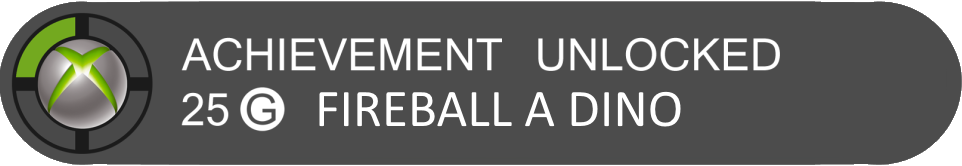
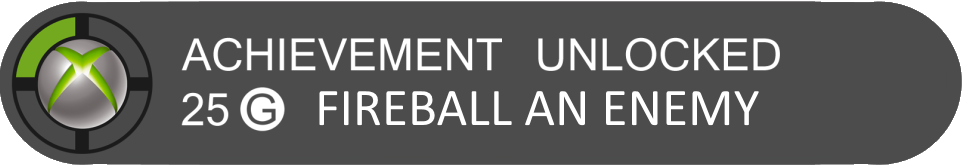
Added Achievements (working on a GUI for them)

Changed region(s): [[0.5301, 0.5422, 0.8108, 0.7831], [0.3119, 0.5422, 0.5301, 0.7831]]

diff --git a/Sprint 4/Sprint_4/Achievements/AchievementsManager.cs b/Sprint 4/Sprint_4/Achievements/AchievementsManager.cs
@@ -4,31 +4,76 @@ using System.Linq;
 using System.Text;
 using Microsoft.Xna.Framework;
 using Microsoft.Xna.Framework.Graphics;
+using Microsoft.Xna.Framework.Audio;
 
 namespace Sprint4
 {
-    class AchievementsManager
+    public class AchievementsManager
     {
-        private List<Achievement> achievements;
-        private List<int> achievementKeeper;
+        private Dictionary<AchievementType, Achievement> achievementKeeper;
+        private SoundEffectInstance achFX;
+        private int achTimer = 200;
+        Game1 game;
+
+        public enum AchievementType
+        {
+            Life,
+            Enemy,
+            Coins,
+            Death,
+            Fireball,
+            Mushroom,
+            Level
+        }
 
         public void AchievementUnlocked(Achievement ach)
         {
+            if (achFX.State == SoundState.Stopped)
+            {
+                achFX.Play();
+            }
             ach.isUnlocked = true;
+            game.gameHUD.Achievement = ach.image;
+            game.gameHUD.hideAch = false;
         }
 
-        public AchievementsManager()
+        public AchievementsManager(Game1 game)
         {
-            achievementKeeper = new List<int>();
-            achievements = new List<Achievement>();
-            achievements.Add(new Achievement() { isUnlocked = false, image = Game1.gameContent.Load<Texture2D>("achievementBeatLevel") });
-            achievements.Add(new Achievement() { isUnlocked = false, image = Game1.gameContent.Load<Texture2D>("achievementCoins") });
-            achievements.Add(new Achievement() { isUnlocked = false, image = Game1.gameContent.Load<Texture2D>("achievementEat") });
-            achievements.Add(new Achievement() { isUnlocked = false, image = Game1.gameContent.Load<Texture2D>("achievementFall") });
-            achievements.Add(new Achievement() { isUnlocked = false, image = Game1.gameContent.Load<Texture2D>("achievementFireball") });
-            achievements.Add(new Achievement() { isUnlocked = false, image = Game1.gameContent.Load<Texture2D>("achievementKoopa") });
-            achievements.Add(new Achievement() { isUnlocked = false, image = Game1.gameContent.Load<Texture2D>("achievementLife") });
+            achFX = SoundManager.achUnlocked.CreateInstance();
+            this.game = game;
+            achievementKeeper = new Dictionary<AchievementType, Achievement>();
+            achievementKeeper.Add(AchievementType.Level, new Achievement() { isUnlocked = false, image = Game1.gameContent.Load<Texture2D>("Achievements/achievementBeatLevel"), unlockCheck = 1, unlockMark = 0 });
+            achievementKeeper.Add(AchievementType.Coins, new Achievement() { isUnlocked = false, image = Game1.gameContent.Load<Texture2D>("Achievements/achievementCoins"), unlockCheck = 20, unlockMark = 0 });
+            achievementKeeper.Add(AchievementType.Mushroom, new Achievement() { isUnlocked = false, image = Game1.gameContent.Load<Texture2D>("Achievements/achievementEat"), unlockCheck = 1, unlockMark = 0 });
+            achievementKeeper.Add(AchievementType.Death, new Achievement() { isUnlocked = false, image = Game1.gameContent.Load<Texture2D>("Achievements/achievementFall"), unlockCheck = 1, unlockMark = 0 });
+            achievementKeeper.Add(AchievementType.Fireball, new Achievement() { isUnlocked = false, image = Game1.gameContent.Load<Texture2D>("Achievements/achievementFireball"), unlockCheck = 1, unlockMark = 0 });
+            achievementKeeper.Add(AchievementType.Enemy, new Achievement() { isUnlocked = false, image = Game1.gameContent.Load<Texture2D>("Achievements/achievementEnemy"), unlockCheck = 1, unlockMark = 0 });
+            achievementKeeper.Add(AchievementType.Life, new Achievement() { isUnlocked = false, image = Game1.gameContent.Load<Texture2D>("Achievements/achievementLife"), unlockCheck = 1, unlockMark = 0 });
         }
 
+        public void AchievementAdjustment(AchievementType ach)
+        {
+            if (!achievementKeeper[ach].isUnlocked)
+            {
+                achievementKeeper[ach].unlockMark++;
+                if (achievementKeeper[ach].unlockCheck == achievementKeeper[ach].unlockMark)
+                {
+                    AchievementUnlocked(achievementKeeper[ach]);
+                }
+            }
+        }
+
+        public void Update(GameTime gameTime)
+        {
+            if (!game.gameHUD.hideAch)
+            {
+                achTimer--;
+                if (achTimer == 0)
+                {
+                    game.gameHUD.hideAch = true;
+                    achTimer = 100;
+                }
+            }
+        }
     }
 }

diff --git a/Sprint 4/Sprint_4/SoundManager.cs b/Sprint 4/Sprint_4/SoundManager.cs
@@ -13,7 +13,7 @@ namespace Sprint4
         Game1 game;
         public static Song athletic, star, overworld, underground, placeHolderSong, overworldFast, vmusic;
         public static SoundEffect coinCollect, brickBreak, grow, shrink, blockHit, oneUp, enemyDamage, jump, itemSpawn,
-            pause, death, gameOver, fireball, launch, clear;
+            pause, death, gameOver, fireball, launch, clear, achUnlocked;
             
         public enum songs{athletic, star, overworld, underground, overworldFast, vmusic}
         public SoundManager(Game1 game){
@@ -40,6 +40,7 @@ namespace Sprint4
             underground = game.Content.Load<Song>("Sound/Music/Underground BGM");
             clear = game.Content.Load<SoundEffect>("Sound/Music/Course Clear Fanfare");
             overworldFast = game.Content.Load<Song>("Sound/Music/OverworldTimeRunningOut");
+            achUnlocked = game.Content.Load<SoundEffect>("Achievements/AchievementUnlocked");
         }
         public static void PlaySong(SoundManager.songs song)
         {

diff --git a/Sprint 4/Sprint_4/Collision Detection and Response/ItemCollisionResponder.cs b/Sprint 4/Sprint_4/Collision Detection and Response/ItemCollisionResponder.cs
@@ -27,6 +27,7 @@ namespace Sprint4
                 mario.MakeBigMario();
                 game.gameHUD.Score += ValueHolder.itemCollectPoints;
                 SoundManager.grow.Play();
+                game.ach.AchievementAdjustment(AchievementsManager.AchievementType.Mushroom);
             }
             if (item.GetType().Equals(new FireFlower(item.position).GetType()))
             {
@@ -39,11 +40,13 @@ namespace Sprint4
                 SoundManager.coinCollect.Play();
                 game.gameHUD.Coins++;
                 game.gameHUD.Score += ValueHolder.coinCollectPoints;
+                game.ach.AchievementAdjustment(AchievementsManager.AchievementType.Coins);
             }
             if (item.GetType().Equals(new OneUpMushroom(item.position).GetType()))
             {
                 SoundManager.oneUp.Play();
                 game.gameHUD.Lives++;
+                game.ach.AchievementAdjustment(AchievementsManager.AchievementType.Life);
             }
         }
     }

diff --git a/Sprint 4/Sprint_4/HUD and Background/HUD.cs b/Sprint 4/Sprint_4/HUD and Background/HUD.cs
@@ -13,6 +13,7 @@ namespace Sprint4
         public int Lives { get; set; }
         public int Time { get; set; }
         public int Score { get; set; }
+        public Texture2D Achievement { get; set; }
         public Texture2D LivesSprite { get; set; }
         public Texture2D CoinSprite { get; set; }
         public Texture2D TimeSprite { get; set; }
@@ -30,6 +31,7 @@ namespace Sprint4
         public int pointMultiplier = 1;
         bool changedMusic = false;
         public bool gameEnded = false;
+        public bool hideAch = true;
 
         public HUD(Game1 game)
         {
@@ -93,7 +95,10 @@ namespace Sprint4
                 spriteBatch.DrawString(Paused, StringHolder.pausedMessaged, game.gameCamera.CenterScreen + 
                     ValueHolder.textPosition, Color.Black);
             }
-
+            if (!hideAch)
+            {
+                spriteBatch.Draw(Achievement, new Rectangle(200, 50, 400, 50), Color.White);
+            }
         }
     }
 }

diff --git a/Sprint 4/Sprint_4/Game1.cs b/Sprint 4/Sprint_4/Game1.cs
@@ -26,6 +26,7 @@ namespace Sprint4
         private static Game1 sInstance = new Game1();
         public BackgroundHolder background;
         public HUD gameHUD;
+        public AchievementsManager ach;
 
         private Game1()
         {
@@ -44,6 +45,7 @@ namespace Sprint4
             gamepadController = new GamepadController(level.mario);
             gameState = new PlayGameState();
             background = new BackgroundHolder();
+            ach = new AchievementsManager(this);
             base.Initialize();
         }
 
@@ -56,6 +58,7 @@ namespace Sprint4
         protected override void Update(GameTime gameTime)
         {
             gameState.Update(gameTime);
+            ach.Update(gameTime);
             base.Update(gameTime);
         }
 

diff --git a/Sprint 4/Sprint_4/Game Object Classes/Mario.cs b/Sprint 4/Sprint_4/Game Object Classes/Mario.cs
@@ -169,7 +169,7 @@ namespace Sprint4
                 }
             }           
         }
-        public void Update(GameTime gameTime)
+        public void Update(GameTime gameTime, Game1 game)
         {            
             if (starTimer != 0 & isStar)
             {
@@ -188,6 +188,7 @@ namespace Sprint4
             if (position.Y > ValueHolder.fallingMarioBoundary)
             {
                 state = new DeadMS(this);
+                game.ach.AchievementAdjustment(AchievementsManager.AchievementType.Death);
             }         
                         
             if (fireballTimer != 0 )

diff --git a/Sprint 4/Sprint_4/Collision Detection and Response/EnemyCollisionResponder.cs b/Sprint 4/Sprint_4/Collision Detection and Response/EnemyCollisionResponder.cs
@@ -37,6 +37,7 @@ namespace Sprint4
                 if (marioRect.Bottom > enemyRect.Top && marioRect.Bottom < enemyRect.Bottom)
                 {
                     enemy.TakeDamage();
+                    game.ach.AchievementAdjustment(AchievementsManager.AchievementType.Enemy);
                     game.gameHUD.Score += ValueHolder.enemyHurtPoints * game.gameHUD.pointMultiplier;
                     mario.velocity.Y = bounce;
                     game.gameHUD.pointMultiplier++;

diff --git a/Sprint 4/Sprint_4/Collision Detection and Response/FireballCollisionResponder.cs b/Sprint 4/Sprint_4/Collision Detection and Response/FireballCollisionResponder.cs
@@ -20,6 +20,7 @@ namespace Sprint4
         public void EnemyFireballCollide(Enemy enemy, Fireball fireball)
         {
             enemy.TakeDamage();
+            game.ach.AchievementAdjustment(AchievementsManager.AchievementType.Fireball);
             game.level.deadFireballs.Add(fireball);
             mario.fireballCount--;
             game.gameHUD.Score += ValueHolder.enemyHurtPoints;

diff --git a/Sprint 4/Sprint_4/Achievements/Achievement.cs b/Sprint 4/Sprint_4/Achievements/Achievement.cs
@@ -7,9 +7,11 @@ using Microsoft.Xna.Framework.Graphics;
 
 namespace Sprint4
 {
-    class Achievement
+    public class Achievement
     {
         public bool isUnlocked { get; set; }
         public Texture2D image { get; set; }
+        public int unlockCheck { get; set; }
+        public int unlockMark { get; set; }
     }
 }

diff --git a/Sprint 4/Sprint_4/Game Object Classes/Level.cs b/Sprint 4/Sprint_4/Game Object Classes/Level.cs
@@ -99,7 +99,7 @@ namespace Sprint4
              
             collision.Detect(mario, levelFireballs, levelEnemies, levelBlocks, levelItems, levelPipes); 
 
-            mario.Update(gameTime);
+            mario.Update(gameTime, game);
             if (mario.position.X < 0)
             {
                 mario.position.X = 0;

diff --git a/Sprint 4/Sprint_4/Game States/VictoryGameState.cs b/Sprint 4/Sprint_4/Game States/VictoryGameState.cs
@@ -22,6 +22,7 @@ namespace Sprint4
             SoundManager.clear.Play();
             right = new RightCommand(game.level.mario);
             game.gameHUD.gameEnded = true;
+            game.ach.AchievementAdjustment(AchievementsManager.AchievementType.Level);
         }
 
         public void Update(GameTime gameTime)
